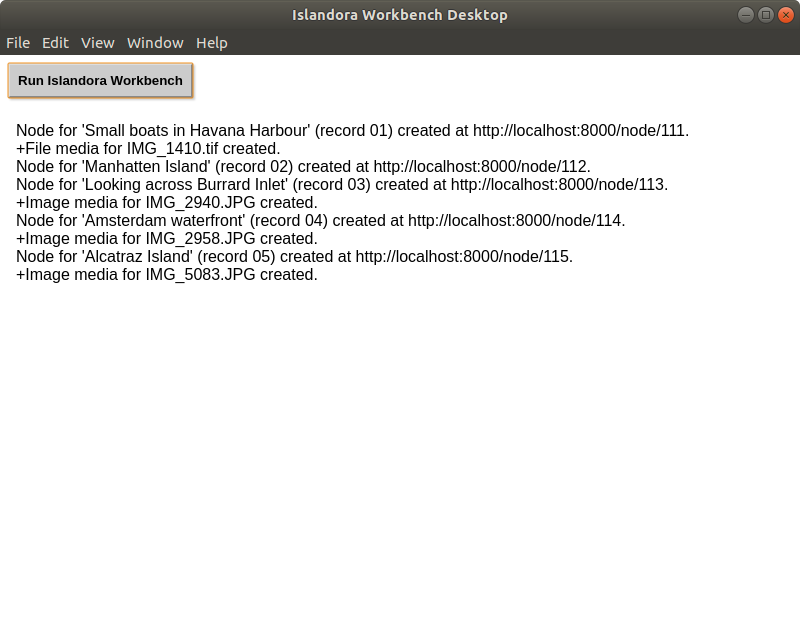
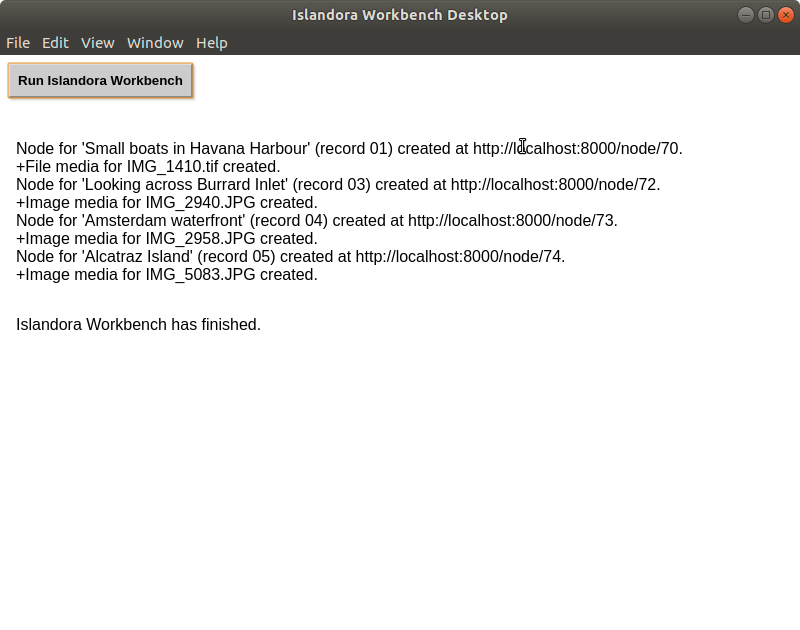
Render messages from workbench one at a time, and append them to output.

diff --git a/main.js b/main.js
@@ -28,18 +28,23 @@ function createWindow () {
   ipc.on('asynchronous-message', function (event, arg) {
     let {PythonShell} = require('python-shell');
     let options = {
+      mode: 'text',
       pythonOptions: ['-u'],
       // You may need to adjust the path to the workbench configuration file, and also
       // the path in the 'input_dir' option with the configuration file. All paths must
       // be relative to the Islandora Workbench Desktop directory.
       args: ['--config', '../workbench/workbench_desktop.yml']
     }
+
     // You may need to adjust the path to workbench so that is it relative to
     // the Islandora Workbench Desktop directory.
-    PythonShell.run('../workbench/workbench', options, function (err, results) {
-      if (err) throw err;
-      output = results.valueOf().join('<br />')
-      event.sender.send('asynchronous-reply', output)
+    let shell = new PythonShell('../workbench/workbench', options);
+    shell.on('message', function (message) {
+      event.sender.send('asynchronous-reply', message)
+    });
+
+    shell.on('close', function (message) {
+      event.sender.send('workbench-exit', 'Islandora Workbench has finished.')
     });
   })
 

diff --git a/renderer.js b/renderer.js
@@ -10,5 +10,10 @@ asyncMsgBtn.addEventListener('click', function () {
 })
 
 ipc.on('asynchronous-reply', function (event, arg) {
-  document.getElementById('asyncReply').innerHTML = arg 
+  // document.getElementById('asyncReply').innerHTML = arg 
+  document.getElementById('asyncReply').innerHTML = document.getElementById('asyncReply').innerHTML + '<br />' + arg
+})
+
+ipc.on('workbench-exit', function (event, arg) {
+  document.getElementById('workbench-exit').innerHTML = arg 
 })

diff --git a/index.html b/index.html
@@ -20,6 +20,7 @@
   <body>
     <button id="sendSyncMsgBtn">Run Islandora Workbench</button>
     <p id="asyncReply"></p>
+    <p id="workbench-exit"></p>
     <script src="./renderer.js"></script>
   </body>
 </html>
